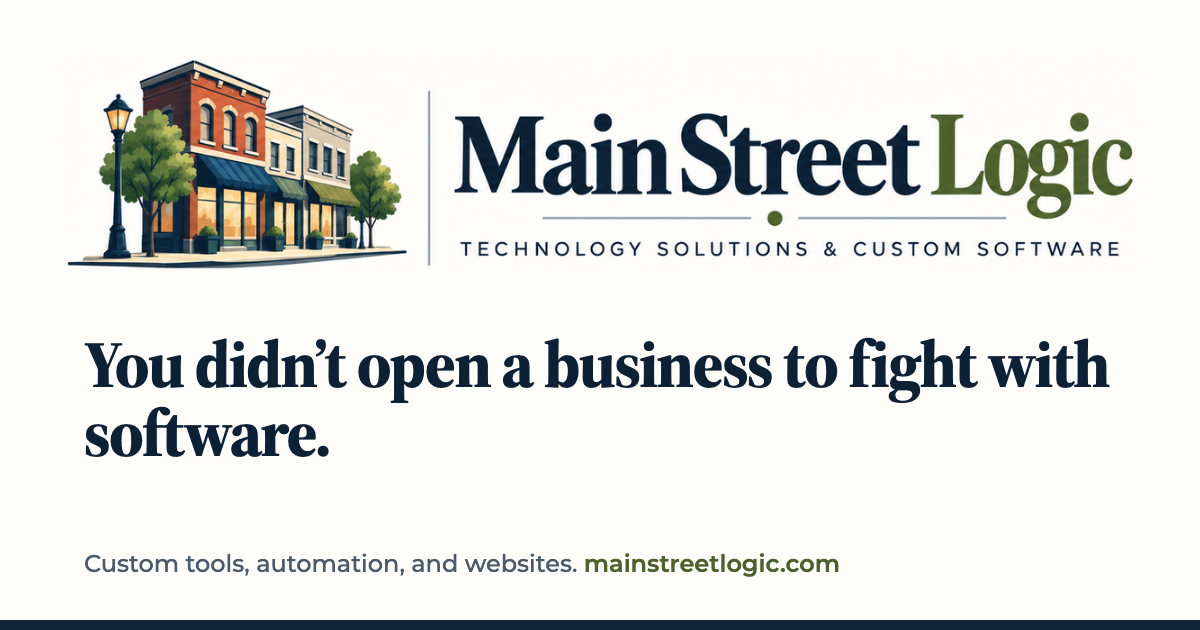
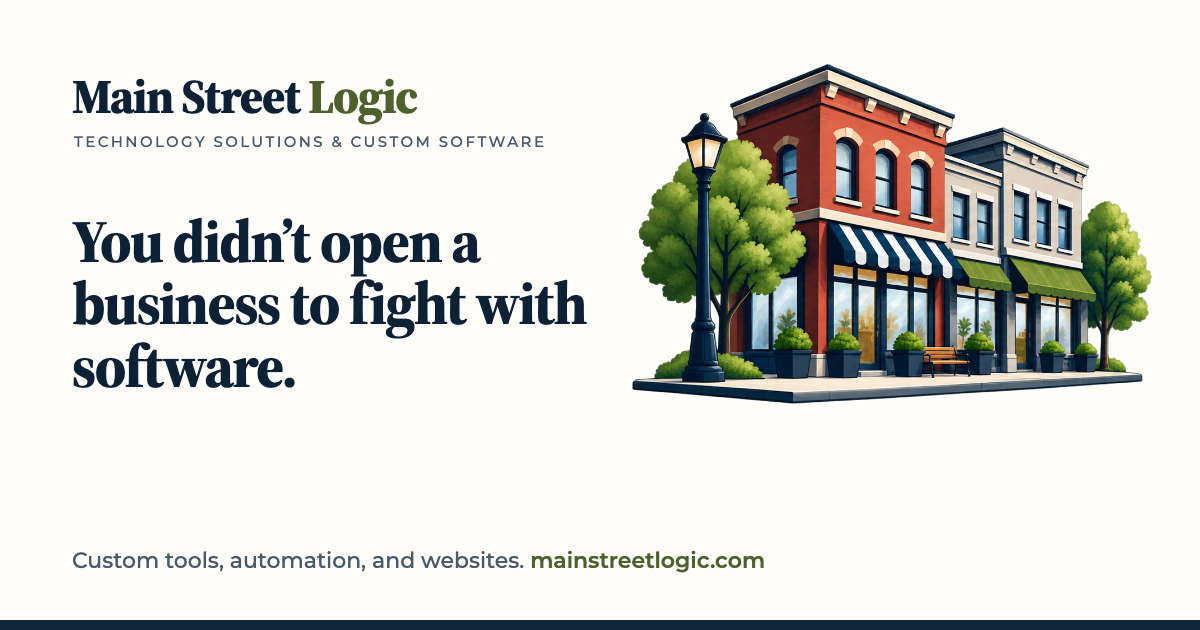
feat: swap in higher-resolution transparent storefront art [msl-c4b]
- Replace the 552px crops from the logo sheet with transparent day
  and night illustrations (929x607, about 1.7x sharper). Faint stray
  alpha specks are removed and the images are trimmed to the art
- Drop the dark-mode edge-mask workaround; the night art sits
  directly on navy
- Update the Logo aspect ratio, the mobile header size, and hero dimensions
- Rebuild the OG card with the new art and a live-text wordmark
- ART-DIRECTION.md: note that logo.png still shows the sheet's
  solid-awning art

Changed region(s): [[0.0617, 0.0905, 0.9558, 0.7238], [0.0617, 0.8746, 0.7092, 0.9349]]

diff --git a/docs/ART-DIRECTION.md b/docs/ART-DIRECTION.md
@@ -27,12 +27,12 @@ Olive is the only button color. Lamp amber is for focus and highlight, never dec
 ## Logo
 
 - `src/components/Logo.astro` is the storefront illustration plus a live-text wordmark. It switches to the lamp-lit night illustration in dark mode. Pass `tagline` to show the tagline.
-- The illustrations (`public/images/brand/storefront-light.webp` and `storefront-dark.webp`) are cropped from the logo sheet at 552px wide.
+- The illustrations (`public/images/brand/storefront-light.webp` and `storefront-dark.webp`) are transparent, 929×607. They are a redrawn version of the logo's storefront with a striped awning and a bench.
 - `public/logo.png` is the full horizontal lockup.
 - The favicons (`favicon.png`, `apple-touch-icon.png`, `icon-512.png`) are an "M" monogram on navy with the logo's olive dot.
 - The rule, olive dot, rule divider under the wordmark is available as `.ornament`.
 
-**To do:** get the logo as a transparent PNG or SVG at 2x or higher. The current illustration crops are 552px wide, which looks soft on high-density screens at hero size.
+**Note:** `public/logo.png` is still cropped from the original logo sheet, which shows a solid navy awning. If the striped-awning art becomes the official logo, re-export the lockup to match.
 
 ## Photography
 
